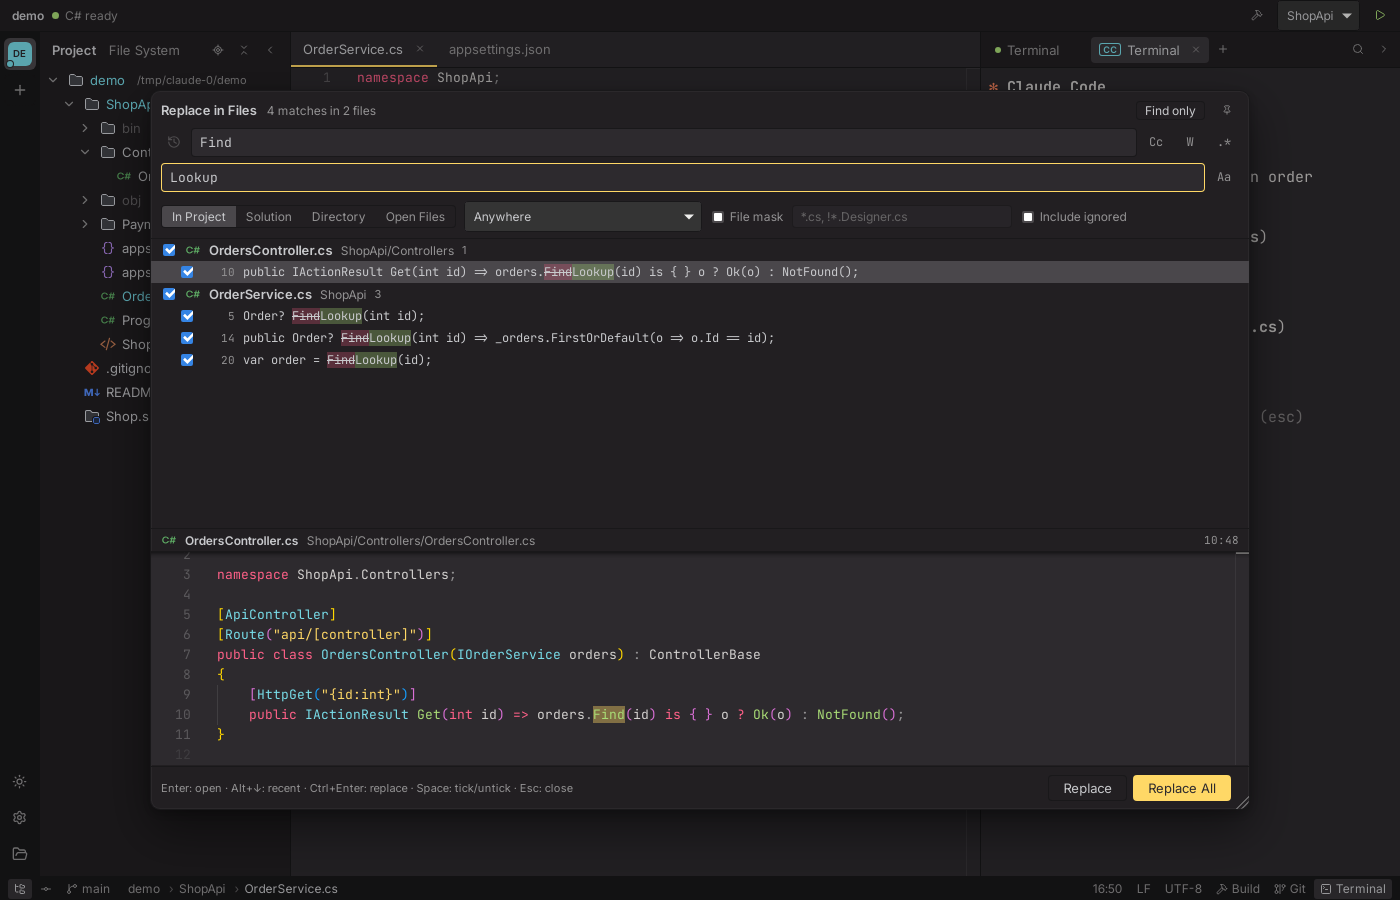
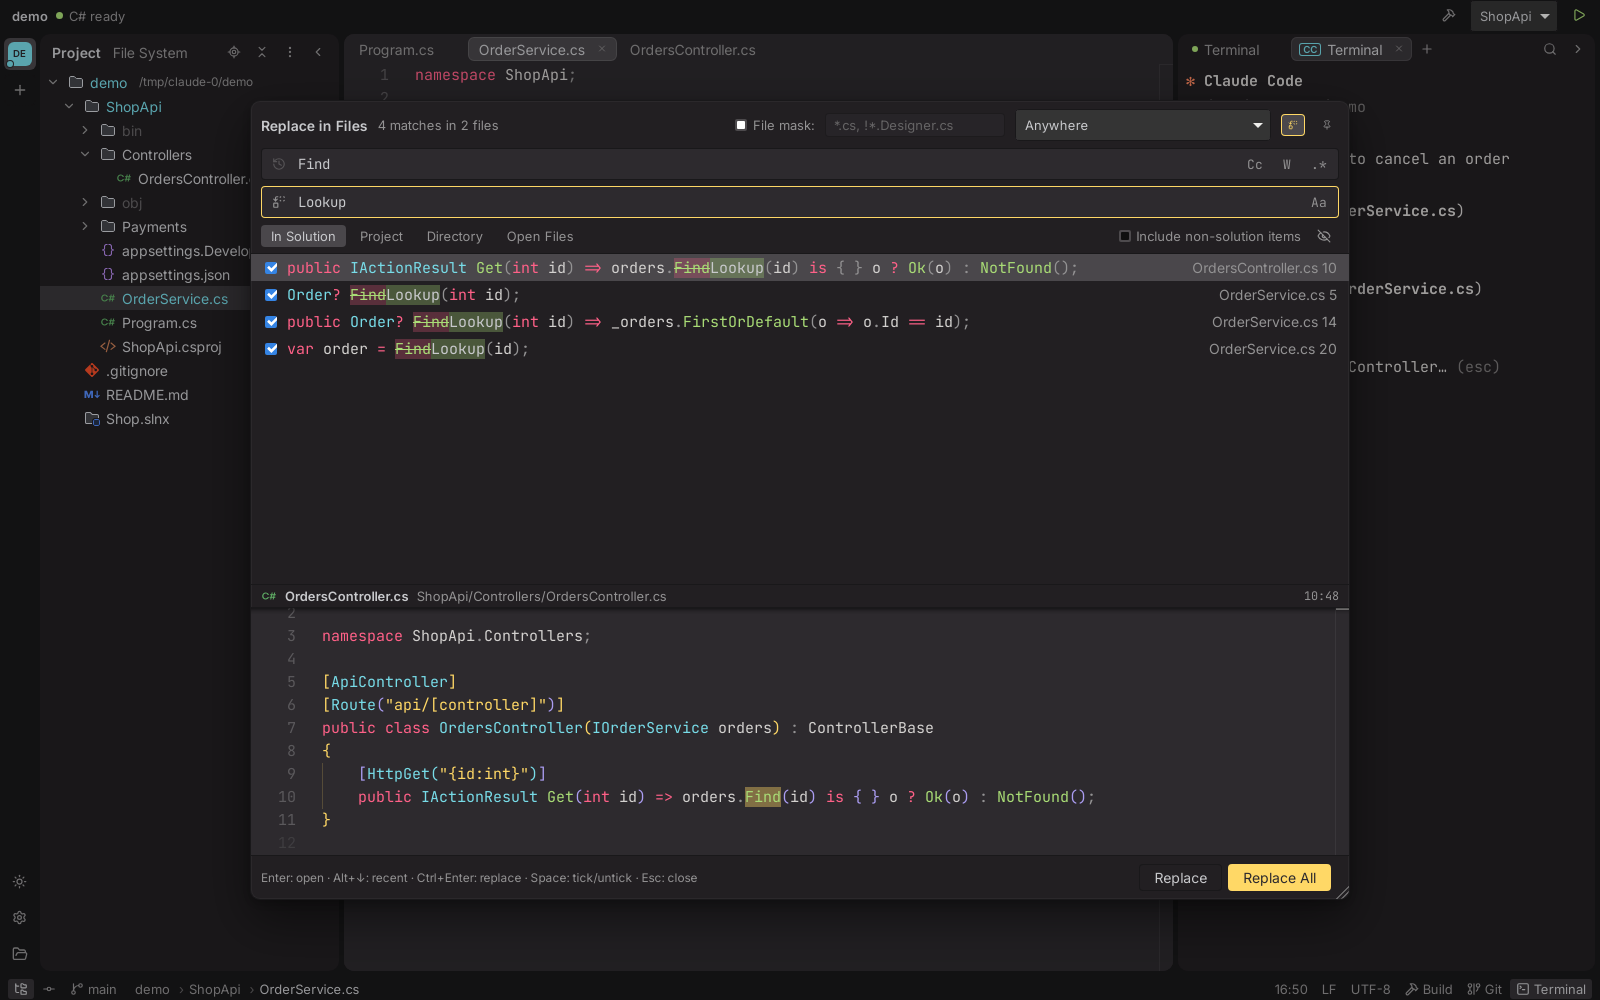
Docs: Islands screenshots and README for the current build
Screenshots retaken at 1600x1000 in the Islands layout from the app
built at 4e68b49; new ones for Search Everywhere and the Keymap page.
README covers what landed since: Islands layout, rainbow brackets,
keymap editor, Check for Updates and About, .NET SDK install, Find
tool window and Rider-style usage lists, decompiled DLL tabs, error
count in the status bar, Search Everywhere and Find in Files in
Rider's layout and scopes, tab overflow list, Project view delete,
Commit window unified preview, resizable diff sides; project layout
updated.

Claude-Session: https://claude.ai/code/session_012HzVuLGwiuxQAdnVDs7PhG

diff --git a/README.md b/README.md
@@ -35,16 +35,17 @@ When an AI agent writes most of the code, a full IDE becomes heavy and noisy, wh
 
 - Multiple projects in a sidebar with favorites, ordering and a Welcome screen of recent projects.
 - Full session restore: open projects, expanded folders, editor tabs, panel sizes and terminals.
-- Dark and light themes (switch from the project rail).
+- Dark and light themes (switch from the project rail), and two layouts (**Settings → Appearance → Layout**): **Classic**, panels edge to edge, or **Islands**, like Rider's Islands UI: Project, editor, terminal and Build/Git as rounded blocks with gaps between them, and tabs as rounded chips. The screenshots use Islands.
 - Lazy-loaded, virtualized file tree that updates live when files change on disk, with JetBrains' file and folder icons (light and dark).
-- Rider-style views: **File System**, and for Unity projects a **Unity** view that lists `Assets` and the packages the project references (registry, git and local), hiding `.meta` files and Unity-hidden assets until *Show All Files* is on. Renames, moves and deletes in a Unity project take the asset's `.meta` along. *Select Opened File* and *Collapse All* in the header.
+- Rider-style views: **File System**, and for Unity projects a **Unity** view that lists `Assets` and the packages the project references (registry, git and local), hiding `.meta` files and Unity-hidden assets until *Show All Files* is on. Renames, moves and deletes in a Unity project take the asset's `.meta` along. *Select Opened File* (or *Always Select Opened File*) and *Collapse All* in the header.
 - Rider-like Git status colors (modified, added, untracked, ignored, conflicted), propagated to parent folders.
 - Rider-style file nesting: `appsettings.Development.json` under `appsettings.json`, `Index.razor.cs` under `Index.razor`, `Strings.Designer.cs` under `Strings.resx`, and so on.
-- New File/Directory (`Alt+Insert`), Rename (`Shift+F6`/`F2`), Delete to trash, Cut/Copy/Paste, drag and drop (hold `Ctrl` to copy), Copy Path, Open in Terminal, Reveal in File Manager.
+- New File/Directory (`Alt+Insert`), Rename (`Shift+F6`/`F2`), Delete to trash (`Cmd+Backspace` on macOS; open tabs of deleted files close, after a warning if unsaved), Cut/Copy/Paste, drag and drop (hold `Ctrl` to copy), Copy Path, Open in Terminal, Reveal in File Manager.
 
 ### Editor (Monaco)
 
-- Preview tabs (single click opens a temporary tab; double-click or editing pins it).
+- Preview tabs (single click opens a temporary tab; double-click or editing pins it). Tabs that do not fit go behind a ▾ list, like Rider.
+- **Rainbow brackets** and rainbow scope guides (Settings → Editor).
 - **Change markers** beside the line numbers, like Rider: added lines (green), modified (blue) and deletions since `HEAD`, following unsaved edits.
 - **Inline blame** at the end of the caret line (`Author, 2 days ago • summary`, details on hover), like GitToolBox.
 - Path breadcrumb in the status bar: click a folder to browse it, the file to list its siblings.
@@ -58,28 +59,30 @@ When an AI agent writes most of the code, a full IDE becomes heavy and noisy, wh
 
 ### Search
 
-- **Search Everywhere** (double `Shift`) with All / Files / Symbols / Actions / Text tabs. Rider-like fuzzy matching (`ordcon` → `OrdersController.cs`), `Name.cs:12` jumps to a line. Also `Ctrl+Shift+N` Go to File, `Ctrl+Shift+A` Find Action, `Ctrl+E` Recent Files.
+- **Search Everywhere** (double `Shift`) with All / Files / Symbols / Actions / Text tabs, in Rider's look, with an optional code preview pane. Rider-like fuzzy matching (`ordcon` → `OrdersController.cs`), `Name.cs:12` jumps to a line; Go to File ranks scripts first. *Include non-solution items* (or double `Shift` again) widens the search to files outside the solution. Also `Ctrl+Shift+N` Go to File, `Ctrl+Shift+A` Find Action, `Ctrl+E` Recent Files.
 - **Find in Files** (`Ctrl+Shift+F`) / **Replace in Files** (`Ctrl+Shift+R`):
-  - A movable, resizable popup with a splitter between results and preview (all remembered); pin it to keep it open while visiting matches; recent searches (`Alt+↓`) and file mask history.
+  - Rider's layout: a movable, resizable popup with one row per match (in the editor's font and colours, file and line on the right) above a code preview; pin it to keep it open while visiting matches; recent searches (`Alt+↓`) and file mask history.
   - Full regex (lookaround, backreferences), `$1` / `${name}` replacements, Match case, Words, Preserve case.
-  - Scopes: Project / Solution / Directory / Open Files; file masks like `*.cs, !*.Designer.cs`; skips `bin/`, `obj/`, `node_modules/` and `.gitignore`d files by default.
+  - Scopes as in Rider: **In Solution** (the files the `.csproj` files list), **Project** (one `.csproj`), Directory, Open Files, plus *Include non-solution items*; file masks like `*.cs, !*.Designer.cs`; skips `bin/`, `obj/`, `node_modules/` and `.gitignore`d files by default.
   - C# context filter powered by tree-sitter: anywhere, only in comments, only in string literals, or everything except those.
   - Open files are searched and replaced in their unsaved buffers (undoable); other files are written on disk with encoding, BOM and CRLF preserved.
   - Every match is re-checked before writing: files that changed since the search (for example, edited by the agent) are skipped and reported.
   - Per-match preview with checkboxes, *Replace* for the selected occurrence only, and a one-click **Undo** for the whole replace.
 
+![Search Everywhere](docs/search-everywhere.png)
 ![Replace in Files](docs/replace-in-files.png)
 
 ### C# and .NET
 
-- Uses Microsoft's **Roslyn Language Server** (`roslyn-language-server` .NET tool), with `csharp-ls` as a fallback. If it is missing, Haze offers a one-click **Install** (**Use Roslyn** when C# runs on `csharp-ls`), then starts C# again with it. A project's C# server (and Unity index) starts when the project is first shown, not for every project open in the sidebar.
+- Uses Microsoft's **Roslyn Language Server** (`roslyn-language-server` .NET tool), with `csharp-ls` as a fallback. If it is missing, Haze offers a one-click **Install** (the .NET SDK too, through Homebrew, winget or Microsoft's `dotnet-install` script, when `dotnet` is not found) (**Use Roslyn** when C# runs on `csharp-ls`), then starts C# again with it. A project's C# server (and Unity index) starts when the project is first shown, not for every project open in the sidebar.
 - Rider-style navigation: `Ctrl+B`/`Ctrl+Click` Go to Definition, `Alt+F7`/`Shift+F12` Find Usages, `Ctrl+Alt+B` Go to Implementation, `Ctrl+F12` File Structure, `Shift+F6` cross-file Rename (single undo), `Alt+Enter` Roslyn quick fixes and refactorings, `Ctrl+Alt+L` format, plus hover, completion, signature help and highlights.
-- `Ctrl+Click` on a declaration lists its usages, like Rider. Usage lists open just under the symbol.
+- `Ctrl+Click` on a declaration lists its usages, like Rider. Usage and declaration lists (instead of Monaco's peek view) open just under the symbol, one row per usage coloured like the editor. *Open in Find Window* (or `Alt+F7` again) moves them to a **Find** tool window: a tree of files and usages with a code preview, Rerun, Previous/Next Occurrence and Pin Tab.
+- Go to Definition into DLLs (UnityEngine, the BCL, source generators) with `csharp-ls`: decompiled code opens in a read-only tab.
 - **Code Vision** above types and members (`3 usages | author +1`); the count opens Find Usages. Unused private members are greyed out (Unity messages, attributes, overrides and public API are left alone). Lenses show as soon as a file opens (Haze parses it itself), with the last counts until the server has counted again; Roslyn counts through its own CodeLens, fast even in a large Unity solution (an interface implementation also counts the calls made through the interface, as in Visual Studio).
 - Rider-like highlighting: a C# grammar that tells methods, types, attributes, doc comments and directives apart, then Roslyn's semantic tokens once the projects load.
 - **Inline completions**: as you type a name, the rest of Roslyn's best completion shows as ghost text; `Tab` accepts it, with the `using` it needs.
 - **Other languages** (TypeScript/JavaScript, Python, C/C++, Go, Rust, Java, shaders…), and C# while Roslyn is still loading or not installed: `Ctrl+Click`/`Ctrl+B` and `Alt+F7` work from a fast text search of the project. The current file is checked first (so local variables resolve to the nearest declaration above), then the project; no types are resolved, so a name declared in several places shows them all.
-- **Real build errors only**: `Ctrl+Shift+B` runs `dotnet build`; the Build panel lists MSBuild errors and warnings and the editor shows squiggles, which clear for a file as soon as you edit it.
+- **Real build errors only**: `Ctrl+Shift+B` runs `dotnet build`; the Build panel lists MSBuild errors and warnings and the editor shows squiggles, which clear for a file as soon as you edit it. The status bar reads *N errors in M files*; click it to go to the next error.
 - **Run bar** built from each project's `launchSettings.json` (and `dotnet test` for test projects). `Shift+F10` runs in its own terminal tab, which survives closing Haze.
 - Files created, changed or deleted by the agent are reported to Roslyn (`workspace/didChangeWatchedFiles`), so navigation always reflects the latest code. Even a huge change (a branch checkout, a Unity reimport) still reports its sources; if the OS dropped file events, Roslyn reloads the projects.
 - If Roslyn finds no definition (for example a new Unity script that Unity has not added to its `.csproj` yet), `Ctrl+Click` falls back to the text search. A crashed server restarts on its own (up to 3 times in a row).
@@ -96,12 +99,12 @@ When an AI agent writes most of the code, a full IDE becomes heavy and noisy, wh
 
 A Rider/Rebased-style Git client built on top of the system `git` CLI.
 
-- **Commit** (`Alt+0`, `Ctrl+K`): a separate OS window (it can leave Haze's window, like Rider's) with the changes and message beside the selected file's diff (`Ctrl+D` opens the diff in a floating window of its own); check the files to commit without staging; files edited but not saved count as changes; multi-select (`Ctrl`/`Shift`+click) to roll back or diff several files; Changes / Unversioned Files / Merge Conflicts groups; Amend, Commit and Push, Rollback, Add to VCS, Add to `.gitignore`; Continue/Abort banner during merge or rebase.
+- **Commit** (`Alt+0`, `Ctrl+K`): a separate OS window (it can leave Haze's window, like Rider's) with the changes and message beside the selected file's diff (`Ctrl+D` opens the diff in a floating window of its own); check the files to commit without staging; files edited but not saved count as changes; multi-select (`Ctrl`/`Shift`+click) to roll back or diff several files; Changes / Unversioned Files / Merge Conflicts groups; a unified preview of the selected file (removed lines shown between the current ones, like Rider's); Amend, Commit and Push, Rollback, Add to VCS, Add to `.gitignore`; Continue/Abort banner during merge or rebase.
 - **Git log** (`Alt+9`): branch graph, branch/tag/remote labels, filters by text, hash, author, branch, path and first parent; resizable panes; commit details with the changed files as a directory tree (added green, modified orange, deleted red); a **Console** tab with every git command Haze ran.
 - Commit actions: Checkout, New Branch, New Tag, Cherry-Pick, Revert, Undo Commit, Reset to Here (Soft/Mixed/Hard), **Interactive Rebase from Here** (pick / reword / edit / squash / fixup / drop, no text editor needed).
 - **Branches** popup (status bar or ``Ctrl+Shift+` ``): checkout with **Smart Checkout** (auto-stash), new, merge, rebase, compare, push, rename, delete, delete remote; Fetch.
 - **Push** (`Ctrl+Shift+K`) with a preview of outgoing commits and `--force-with-lease`; the target reads `branch → remote : target` as in Rider, editable in place and tagged *New* when the remote lacks it. **Pull** dialog to pick the remote and branch (`Alt+P` on macOS). **Update Project** (`Ctrl+T`) via merge or rebase with auto-stash. Commands that touch the working tree (stash, checkout, reset…) save all files first.
-- **Diff** tabs in Rider style: no filler lines, curved connectors between matching blocks, scrolling kept in step block by block, word-level highlights, `F7`/`Shift+F7` to jump between changes; editable on the working-copy side, where the `>>` gutter icon reverts a block to the left side (hold `Ctrl` on a modified block to append the left lines below it instead). Annotate with Git Blame, Show History for File, Compare with HEAD.
+- **Diff** tabs in Rider style: no filler lines, curved connectors between matching blocks, scrolling kept in step block by block, word-level highlights, `F7`/`Shift+F7` to jump between changes, sides resized by dragging the gap (double-click splits evenly); editable on the working-copy side, where the `>>` gutter icon reverts a block to the left side (hold `Ctrl` on a modified block to append the left lines below it instead). Annotate with Git Blame, Show History for File, Compare with HEAD.
 - **Conflict resolution**: Accept Yours / Accept Theirs, or a **3-way merge view** (Yours | Result | Theirs) with non-conflicting changes pre-merged.
 - **Stashes**: view, apply, pop, drop, unstash as branch, stash including untracked files.
 - **AI checkpoints**: snapshot the whole working tree (including new files, without touching index or branches) before letting an agent run; *Since checkpoint* lists every file it changed, with diffs.
@@ -122,7 +125,7 @@ A Rider/Rebased-style Git client built on top of the system `git` CLI.
 
 ### AI agents
 
-- **Settings** (`Ctrl+Alt+S`; pages for Appearance, Editor, AI Agents, Version Control and Project View) installs status hooks, keeping your other settings and hooks (a `.haze-backup` copy is made on the first write; remove them anytime):
+- **Settings** (`Ctrl+Alt+S`; pages for Appearance, Editor, Keymap, AI Agents, Version Control, Project View, Unity and Updates) installs status hooks, keeping your other settings and hooks (a `.haze-backup` copy is made on the first write; remove them anytime):
   - **Claude Code**: hooks in `~/.claude/settings.json`.
   - **Codex**: lifecycle hooks in `~/.codex/hooks.json` (Codex may ask you to trust them in `/hooks`), plus `notify` in `config.toml` for older versions unless you use it already.
   - **Gemini CLI** (0.26+): hooks in `~/.gemini/settings.json`.
@@ -147,6 +150,13 @@ A Rider/Rebased-style Git client built on top of the system `git` CLI.
   `agent` and `run` start your shell in the new terminal and type the command into it, then show the terminal in Haze (`--no-ui` to skip). Ids may be shortened to any unique prefix; inside a Haze terminal, `$HAZE_TERMINAL_ID` is its own.
 
 ![AI agents](docs/agents.png)
+
+### Keymap and updates
+
+- **Keymap** page in Settings: every command with its shortcuts, Rider's defaults (the macOS ReSharper keymap on macOS); click **+** and press keys to add one, conflicts are shown, changed commands are highlighted and can be reset.
+- **Check for Updates…** (app menu, or automatically every few hours, Settings → Updates) compares the build with the latest GitHub release and links to it (or `brew upgrade --cask haze`); nothing is downloaded or installed by itself. **About Haze** in the app menu.
+
+![Keymap](docs/keymap.png)
 
 ## Installation
 
@@ -233,7 +243,7 @@ macOS builds are ad-hoc signed by default; the cask removes the quarantine flag 
 | Branches | ``Ctrl+Shift+` `` |
 | Terminal / Project view | `Alt+F12` (`Cmd+J` on macOS) / `Alt+1` |
 | Copy Context for AI | `Ctrl+Shift+C` |
-| Settings | `Ctrl+Alt+S` |
+| Settings (and Keymap) | `Ctrl+Alt+S` |
 
 ## Architecture
 
@@ -287,12 +297,12 @@ Haze is a [Tauri 2](https://tauri.app/) app: a Rust backend that owns the file s
 src/                         frontend (React)
   components/                FileTree, EditorArea, TerminalPanel, SearchEverywhere, FindInFiles,
                              CommitPanel, GitPanel, GitDialogs, DiffView, MergeView, RebaseDialog,
-                             BuildPanel, UsagesPopup, SettingsDialog, ...
+                             BuildPanel, UsagesPopup, FindPanel, UnityPanel, SettingsDialog, ...
   assets/jb/                 JetBrains file and folder icons (Apache 2.0)
   lib/                       ipc (Rust bindings), buffers (open files), monaco, merge, lineChanges,
                              termLinks, worktrees, keymap, theme
   lib/lsp/                   JSON-RPC client, C# session and Monaco providers
-  store/                     zustand stores: workspace, tree, terminals, git, dotnet, ui, persist
+  store/                     zustand stores: workspace, tree, terminals, git, dotnet, unity, updates, ui, persist
 src-tauri/src/               backend (Rust)
   main.rs, lib.rs            entry point: app, --pty-host, --agent-hook or CLI mode; Tauri commands
   cli.rs, cli_open.rs        haze agent/run/list/send/wait/read, and haze <folder> [<file>]
@@ -305,14 +315,17 @@ src-tauri/src/               backend (Rust)
   git_ops.rs                 changes, commit, rollback, branches, stash, blame, rebase, checkpoints
   git_auth.rs                GitHub / GitLab accounts, keychain tokens, credential helper
   search.rs                  Find/Replace in Files with undo
-  syntax.rs                  C# comment/string ranges (tree-sitter)
+  syntax.rs                  C# comment/string ranges and declarations for Code Vision (tree-sitter)
   file_index.rs              file list and fuzzy matching for Search Everywhere
   lsp.rs                     language server process and message relay
   dotnet.rs                  solutions, projects, launch profiles, dotnet build parsing
   agent_hooks.rs             Claude Code / Codex hook install and the --agent-hook mode
+  unity.rs, unity_index.rs   live link to the Unity Editor; Unity classes, event functions and asset usages
+  updates.rs                 Check for Updates against the latest GitHub release
   shell_env.rs               PATH from the login shell (macOS)
   procinfo.rs                shell working directory and child-process detection for terminals
   pty/                       PTY host (host.rs), client (client.rs), wire protocol (protocol.rs)
+unity/com.aprius.ide.haze/   Unity package: External Script Editor, project generation, live link
 scripts/                     bump-version.sh
 Casks/                       Homebrew cask (updated by the release workflow)
 docs/                        screenshots
